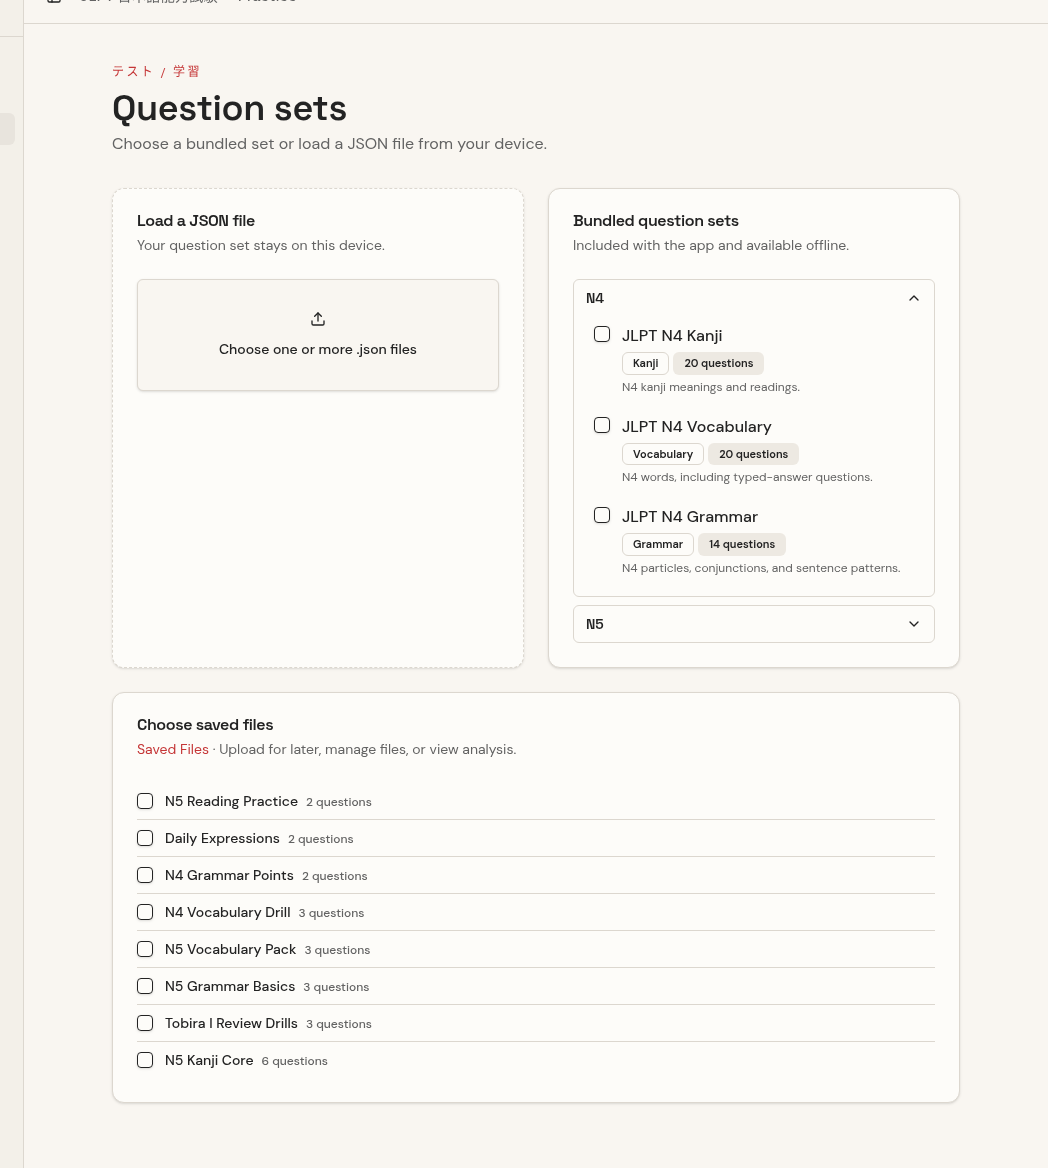
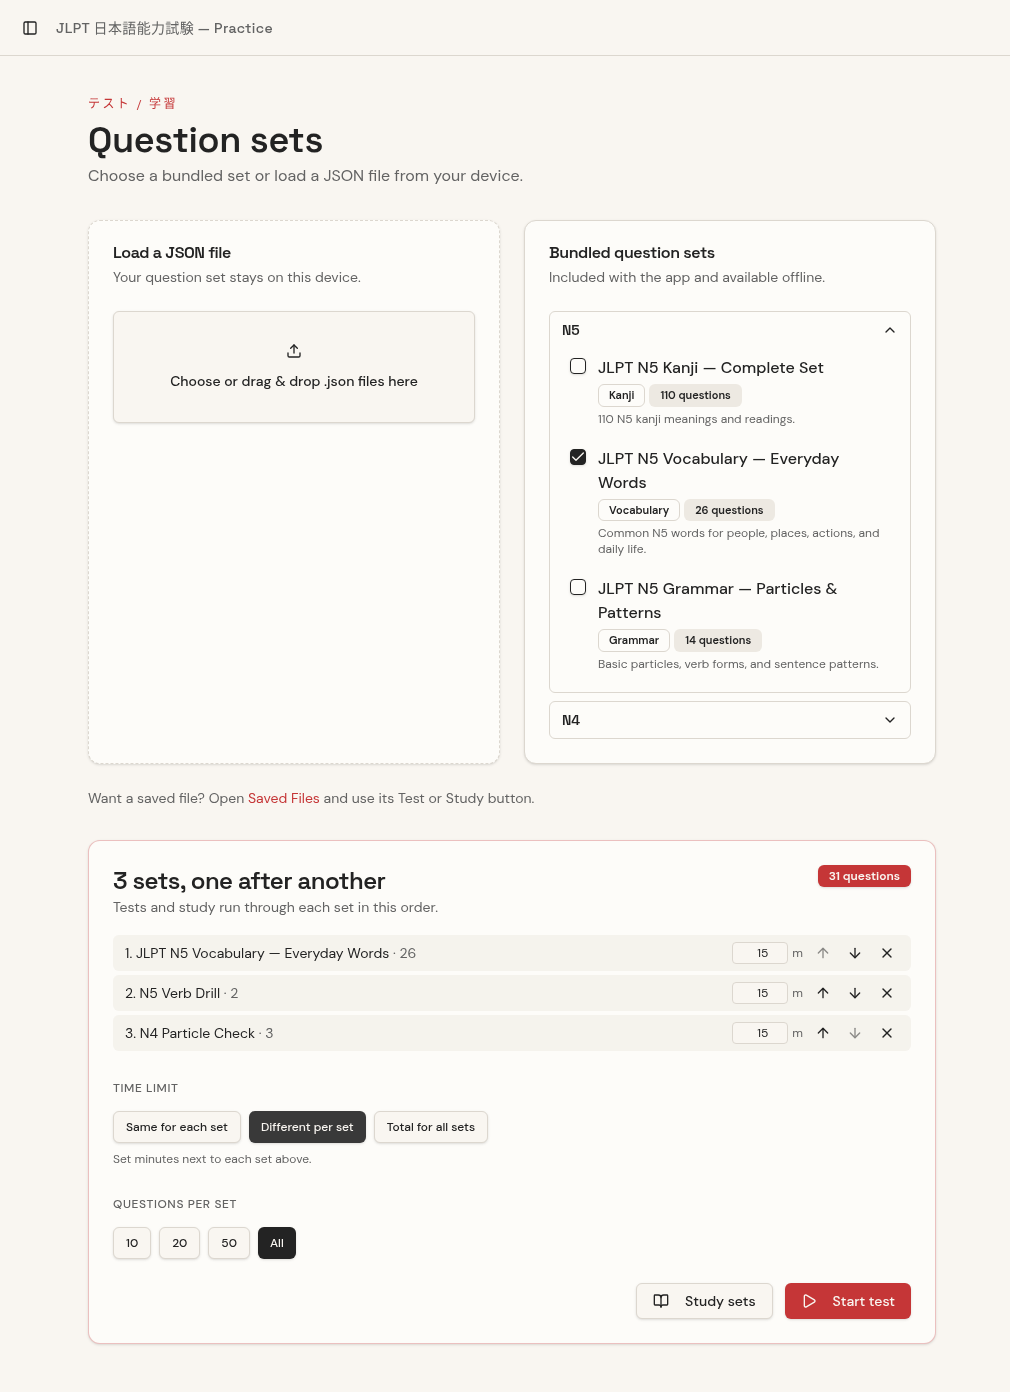
Replace contents with files from jlpt-quiz-buddy

diff --git a/src/routes/load.tsx b/src/routes/load.tsx
@@ -1,6 +1,6 @@
 import { createFileRoute, useNavigate } from "@tanstack/react-router";
 import { useEffect, useRef, useState } from "react";
-import { BookOpen, ChevronDown, Play, Upload, X } from "lucide-react";
+import { ArrowDown, ArrowUp, BookOpen, ChevronDown, Play, Upload, X } from "lucide-react";
 import { Checkbox } from "@/components/ui/checkbox";
 import { Collapsible, CollapsibleContent, CollapsibleTrigger } from "@/components/ui/collapsible";
 import { toast } from "sonner";
@@ -13,7 +13,6 @@ import { Badge } from "@/components/ui/badge";
 import { fetchManifest, groupBySection, pickQuestions, type ManifestEntry } from "@/lib/built-in-quizzes";
 import { normalizeQuizJson, saveActive, saveStudySets, validateQuestionSet } from "@/lib/quiz-store";
 import type { QuestionSet } from "@/lib/quiz-types";
-import { listFiles, type SavedFile } from "@/lib/library-store";
 import { importFixDescription, importQuizFile } from "@/lib/quiz-file-import";
 import { Link } from "@tanstack/react-router";
 
@@ -51,17 +50,10 @@ function LoadTest() {
       }
     }
     if (ok.length) {
-      void refreshFiles();
       setUploaded((u) => [...u, ...ok]);
       toast.success(`${ok.length} question set${ok.length > 1 ? "s" : ""} loaded`);
     }
   }
-
-  const [files, setFiles] = useState<SavedFile[]>([]);
-  const [picked, setPicked] = useState<string[]>([]);
-  const refreshFiles = () => listFiles().then(setFiles).catch(() => {});
-  useEffect(() => { void refreshFiles(); }, []);
-  const uploadedIds = new Set(uploaded.map((u) => u.sourceId));
 
   const [manifest, setManifest] = useState<ManifestEntry[]>([]);
   const [counts, setCounts] = useState<Record<string, number | null>>({});
@@ -91,21 +83,60 @@ function LoadTest() {
     setSelected((cur) => (on ? [...cur, id] : cur.filter((x) => x !== id)));
   }
 
-  const savedSets: QuestionSet[] = files.filter((f) => picked.includes(f.id) && !uploadedIds.has(f.id))
-    .map((f) => ({ ...f.set, sourceId: f.id }));
-  const sets: QuestionSet[] = [...selected.flatMap((x) => (loaded[x] ? [loaded[x]] : [])), ...savedSets, ...uploaded];
+  const keyOf = (s: QuestionSet, bundledId?: string) => (bundledId ? `b:${bundledId}` : s.sourceId ?? s.title);
+  const pool: [string, QuestionSet][] = [
+    ...selected.flatMap((x) => (loaded[x] ? [[keyOf(loaded[x], x), loaded[x]] as [string, QuestionSet]] : [])),
+    ...uploaded.map((u) => [keyOf(u), u] as [string, QuestionSet]),
+  ];
+  const [order, setOrder] = useState<string[]>([]);
+  const poolKeys = pool.map(([k]) => k);
+  const orderedKeys = [...order.filter((k) => poolKeys.includes(k)), ...poolKeys.filter((k) => !order.includes(k))];
+  const byKey = Object.fromEntries(pool);
+  const sets: QuestionSet[] = orderedKeys.map((k) => byKey[k]);
   const totalQuestions = sets.reduce((n, s) => n + s.questions.length, 0);
+
+  const [timeMode, setTimeMode] = useState<"same" | "each" | "total">("same");
+  const [perSet, setPerSet] = useState<Record<string, number>>({});
+  const [totalMin, setTotalMin] = useState(30);
+  const minutesFor = (k: string) => perSet[k] ?? duration;
+
+  function move(i: number, d: number) {
+    const j = i + d;
+    if (j < 0 || j >= orderedKeys.length) return;
+    const next = [...orderedKeys];
+    [next[i], next[j]] = [next[j], next[i]];
+    setOrder(next);
+  }
+  function remove(k: string) {
+    if (k.startsWith("b:")) toggle(k.slice(2), false);
+    else setUploaded((u) => u.filter((x) => keyOf(x) !== k));
+  }
 
   useEffect(() => {
     if (sets.length) saveStudySets(sets);
     // eslint-disable-next-line react-hooks/exhaustive-deps
-  }, [selected, uploaded, loaded, picked, files]);
+  }, [selected, uploaded, loaded, order]);
 
   function start() {
     if (!sets.length) return;
     const [first, ...rest] = sets.map((s) => pickQuestions(s, size));
-    saveActive({ set: first, startedAt: Date.now(), durationSec: duration * 60, answers: [], currentIndex: 0, queue: rest });
+    const startedAt = Date.now();
+    const secs = orderedKeys.map((k) => (timeMode === "each" ? minutesFor(k) : duration) * 60);
+    if (timeMode === "total") {
+      saveActive({ set: first, startedAt, durationSec: totalMin * 60, answers: [], currentIndex: 0, queue: rest, deadlineAt: startedAt + totalMin * 60_000 });
+    } else {
+      saveActive({ set: first, startedAt, durationSec: secs[0], answers: [], currentIndex: 0, queue: rest, queueDurations: secs.slice(1) });
+    }
     void navigate({ to: "/quiz" });
+  }
+
+  const [dragging, setDragging] = useState(false);
+  function onDrop(e: React.DragEvent) {
+    e.preventDefault();
+    setDragging(false);
+    const files = Array.from(e.dataTransfer.files).filter((f) => f.name.toLowerCase().endsWith(".json") || f.type === "application/json");
+    if (!files.length) { toast.error("Drop .json files only"); return; }
+    void onFiles(files);
   }
 
   return (
@@ -117,7 +148,12 @@ function LoadTest() {
       </div>
 
       <div className="grid gap-6 md:grid-cols-2">
-        <Card className="border-dashed transition-colors hover:border-hanko/50">
+        <Card
+          className={`border-dashed transition-colors hover:border-hanko/50 ${dragging ? "border-hanko bg-hanko/5" : ""}`}
+          onDragOver={(e) => { e.preventDefault(); setDragging(true); }}
+          onDragLeave={(e) => { if (!e.currentTarget.contains(e.relatedTarget as Node)) setDragging(false); }}
+          onDrop={onDrop}
+        >
           <CardHeader>
             <CardTitle className="font-display">Load a JSON file</CardTitle>
             <CardDescription>Your question set stays on this device.</CardDescription>
@@ -138,7 +174,7 @@ function LoadTest() {
             />
             <Button variant="outline" className="h-28 w-full flex-col gap-3" onClick={() => inputRef.current?.click()}>
               <Upload className="h-6 w-6" />
-              <span>Choose one or more .json files</span>
+              <span>{dragging ? "Drop to load" : "Choose or drag & drop .json files here"}</span>
             </Button>
           </CardContent>
         </Card>
@@ -186,29 +222,9 @@ function LoadTest() {
         </Card>
       </div>
 
-      <Card className="mt-6">
-        <CardHeader>
-          <CardTitle className="font-display">Choose saved files</CardTitle>
-          <CardDescription><Link to="/saved-files" className="text-hanko hover:underline">Saved Files</Link> · Upload for later, manage files, or view analysis.</CardDescription>
-        </CardHeader>
-        <CardContent>
-          {files.length === 0 ? (
-            <p className="text-sm text-muted-foreground">No saved files yet.</p>
-          ) : (
-            <ul className="divide-y">
-              {files.map((f) => (
-                <li key={f.id} className="flex items-center gap-3 py-2 text-sm">
-                  <Checkbox checked={picked.includes(f.id) || uploadedIds.has(f.id)} disabled={uploadedIds.has(f.id)}
-                    aria-label={`Use ${f.title}`}
-                    onCheckedChange={(v) => setPicked((p) => (v === true ? [...p, f.id] : p.filter((x) => x !== f.id)))} />
-                  <span className="min-w-0 flex-1 break-words font-medium">{f.title}
-                    <span className="ml-2 text-xs text-muted-foreground">{f.set.questions.length} questions</span></span>
-                </li>
-              ))}
-            </ul>
-          )}
-        </CardContent>
-      </Card>
+      <p className="mt-6 text-sm text-muted-foreground">
+        Want a saved file? Open <Link to="/saved-files" className="text-hanko hover:underline">Saved Files</Link> and use its Test or Study button.
+      </p>
 
       {sets.length > 0 && (
         <Card className="mt-8 border-hanko/30">
@@ -224,16 +240,26 @@ function LoadTest() {
             </div>
             <ol className="mt-3 space-y-1 text-sm">
               {sets.map((s, i) => {
-                const upIdx = i - (sets.length - uploaded.length);
+                const k = orderedKeys[i];
                 return (
-                  <li key={i} className="flex items-center justify-between gap-2 rounded-md bg-secondary/50 px-3 py-1.5">
-                    <span className="min-w-0 truncate">{i + 1}. {s.title} <span className="text-muted-foreground">· {s.questions.length}</span></span>
-                    {upIdx >= 0 && (
-                      <Button size="icon" variant="ghost" className="h-6 w-6" aria-label={`Remove ${s.title}`}
-                        onClick={() => setUploaded((u) => u.filter((_, j) => j !== upIdx))}>
-                        <X className="h-3.5 w-3.5" />
-                      </Button>
+                  <li key={k} className="flex items-center justify-between gap-2 rounded-md bg-secondary/50 px-3 py-1.5">
+                    <span className="min-w-0 flex-1 truncate">{i + 1}. {s.title} <span className="text-muted-foreground">· {s.questions.length}</span></span>
+                    {timeMode === "each" && (
+                      <label className="flex items-center gap-1 text-xs text-muted-foreground">
+                        <input type="number" min={1} max={300} value={minutesFor(k)} aria-label={`Minutes for ${s.title}`}
+                          onChange={(e) => setPerSet((p) => ({ ...p, [k]: Math.max(1, Number(e.target.value) || 1) }))}
+                          className="w-14 rounded border bg-background px-1 py-0.5 text-right text-foreground" />m
+                      </label>
                     )}
+                    <Button size="icon" variant="ghost" className="h-6 w-6" aria-label={`Move ${s.title} up`} disabled={i === 0} onClick={() => move(i, -1)}>
+                      <ArrowUp className="h-3.5 w-3.5" />
+                    </Button>
+                    <Button size="icon" variant="ghost" className="h-6 w-6" aria-label={`Move ${s.title} down`} disabled={i === sets.length - 1} onClick={() => move(i, 1)}>
+                      <ArrowDown className="h-3.5 w-3.5" />
+                    </Button>
+                    <Button size="icon" variant="ghost" className="h-6 w-6" aria-label={`Remove ${s.title}`} onClick={() => remove(k)}>
+                      <X className="h-3.5 w-3.5" />
+                    </Button>
                   </li>
                 );
               })}
@@ -241,11 +267,25 @@ function LoadTest() {
           </CardHeader>
           <CardContent className="space-y-6">
             <div>
-              <Label htmlFor="duration" className="text-xs uppercase tracking-wider text-muted-foreground">Time limit per set</Label>
-              <div className="mt-3 flex items-center gap-4">
-                <Slider id="duration" min={1} max={60} step={1} value={[duration]} onValueChange={(value) => setDuration(value[0] ?? 15)} />
-                <div className="w-16 text-right font-display text-lg tabular-nums">{duration}m</div>
+              <Label className="text-xs uppercase tracking-wider text-muted-foreground">Time limit</Label>
+              <div className="mt-3 flex flex-wrap gap-2">
+                {([["same", "Same for each set"], ["each", "Different per set"], ["total", "Total for all sets"]] as const).map(([m, label]) => (
+                  <Button key={m} type="button" size="sm" variant={timeMode === m ? "default" : "outline"} onClick={() => setTimeMode(m)}>{label}</Button>
+                ))}
               </div>
+              {timeMode === "same" && (
+                <div className="mt-3 flex items-center gap-4">
+                  <Slider id="duration" aria-label="Minutes per set" min={1} max={60} step={1} value={[duration]} onValueChange={(value) => setDuration(value[0] ?? 15)} />
+                  <div className="w-16 text-right font-display text-lg tabular-nums">{duration}m</div>
+                </div>
+              )}
+              {timeMode === "each" && <p className="mt-2 text-xs text-muted-foreground">Set minutes next to each set above.</p>}
+              {timeMode === "total" && (
+                <div className="mt-3 flex items-center gap-4">
+                  <Slider aria-label="Total minutes" min={1} max={240} step={1} value={[totalMin]} onValueChange={(value) => setTotalMin(value[0] ?? 30)} />
+                  <div className="w-16 text-right font-display text-lg tabular-nums">{totalMin}m</div>
+                </div>
+              )}
             </div>
             <div>
               <Label className="text-xs uppercase tracking-wider text-muted-foreground">Questions per set</Label>

diff --git a/src/routes/instructions.tsx b/src/routes/instructions.tsx
@@ -134,10 +134,11 @@ function Instructions() {
         </CardHeader>
         <CardContent className="space-y-3 text-sm leading-relaxed">
           <ol className="list-decimal space-y-2 pl-5">
-            <li>Open <Link to="/load" className="text-hanko underline-offset-4 hover:underline">Load Test</Link> and either choose a <code className="rounded bg-muted px-1.5 py-0.5 font-mono text-xs">.json</code> file or pick a built-in set. Bundled sets are grouped by JLPT level — N5 first, then N4.</li>
-            <li>Set the time limit and press <strong>Start test</strong>.</li>
+            <li>Open <Link to="/load" className="text-hanko underline-offset-4 hover:underline">Load Test</Link> and either choose a <code className="rounded bg-muted px-1.5 py-0.5 font-mono text-xs">.json</code> file — or drag & drop files from your file manager onto the box — or pick a built-in set. Bundled sets are grouped by JLPT level — N5 first, then N4. Saved files live on <Link to="/saved-files" className="text-hanko underline-offset-4 hover:underline">Saved Files</Link> and each one there has its own <strong>Test</strong> and <strong>Study</strong> buttons.</li>
+            <li>When several sets are queued, reorder them with the up and down arrows and remove one with the ✕ button. Choose the time limit style: <strong>same for each set</strong>, <strong>different per set</strong> (a minutes box appears beside each set), or <strong>total for all sets combined</strong>. Then press <strong>Start test</strong>.</li>
             <li>Answer each question without seeing the correct answer during the test. Typed answers accept listed alternatives and small spelling differences.</li>
             <li>At the end, review every answer on the <Link to="/results" className="text-hanko underline-offset-4 hover:underline">Results</Link> screen.</li>
+            <li>Navigate like in a browser: <strong>Alt + ←</strong> goes back and <strong>Alt + →</strong> goes forward.</li>
             <li>Choose <Link to="/study" className="text-hanko underline-offset-4 hover:underline">Study</Link> from the sidebar for a single scrolling page showing every question with its answer and explanation, with search and no timer or scoring.</li>
             <li>Your latest five detailed results are saved on this device. Deleting a result excludes that test from dashboard statistics.</li>
             <li>Open <Link to="/saved-files" className="text-hanko underline-offset-4 hover:underline">Saved Files</Link> and choose <strong>Upload to save</strong> to keep one or more JSON files without testing or studying now. Files stay on this device until deleted or app/browser storage is cleared.</li>

diff --git a/src/routes/quiz.tsx b/src/routes/quiz.tsx
@@ -76,9 +76,14 @@ function QuizScreen() {
       const queue = a.queue ?? [];
       if (!exitAll && queue.length > 0) {
         const [nextSet, ...rest] = queue;
+        const [nextDur, ...restDur] = a.queueDurations ?? [];
+        const durationSec = a.deadlineAt
+          ? Math.max(1, Math.round((a.deadlineAt - Date.now()) / 1000))
+          : (nextDur ?? a.durationSec);
         const next: ActiveSession = {
-          set: nextSet, startedAt: Date.now(), durationSec: a.durationSec,
+          set: nextSet, startedAt: Date.now(), durationSec,
           answers: [], currentIndex: 0, queue: rest, lastSavedId: savedId,
+          queueDurations: a.queueDurations ? restDur : undefined, deadlineAt: a.deadlineAt,
         };
         saveActive(next);
         setActive(next);
@@ -101,7 +106,7 @@ function QuizScreen() {
 
   useEffect(() => {
     if (active && timeLeft === 0 && active.durationSec > 0) {
-      finish(active);
+      finish(active, true, !!active.deadlineAt);
     }
   }, [active, timeLeft, finish]);
 

diff --git a/src/routes/__root.tsx b/src/routes/__root.tsx
@@ -114,6 +114,21 @@ function RootShell({ children }: { children: ReactNode }) {
 function RootComponent() {
   const { queryClient } = Route.useRouteContext();
 
+  useEffect(() => {
+    function onKey(e: KeyboardEvent) {
+      if (!e.altKey || e.ctrlKey || e.metaKey || e.shiftKey) return;
+      if (e.key === "ArrowLeft") {
+        e.preventDefault();
+        window.history.back();
+      } else if (e.key === "ArrowRight") {
+        e.preventDefault();
+        window.history.forward();
+      }
+    }
+    window.addEventListener("keydown", onKey);
+    return () => window.removeEventListener("keydown", onKey);
+  }, []);
+
   return (
     <QueryClientProvider client={queryClient}>
       <SidebarProvider>

diff --git a/src/lib/built-in-quizzes.test.ts b/src/lib/built-in-quizzes.test.ts
@@ -22,3 +22,14 @@ describe("library", () => {
     expect(g[0][0]).toBe(3);
   });
 });
+
+describe("groupBySection", () => {
+  it("lists easier levels first (N5 before N4)", () => {
+    const entries = [
+      { id: "n4-kanji", level: "N4", lesson: 4, type: "kanji", url: "/a", title: "N4 Kanji" },
+      { id: "n5-vocab", level: "N5", lesson: 2, type: "vocabulary", url: "/b", title: "N5 Vocab" },
+    ] as never[];
+    const [first] = groupBySection(entries);
+    expect(first[0]).toBe("N5");
+  });
+});

diff --git a/src/lib/built-in-quizzes.ts b/src/lib/built-in-quizzes.ts
@@ -62,7 +62,7 @@ export function groupBySection(entries: ManifestEntry[]): [string, ManifestEntry
   return [...map.entries()].sort(([a], [b]) => {
     const ra = levelRank(a);
     const rb = levelRank(b);
-    if (ra !== null && rb !== null) return ra - rb;
+    if (ra !== null && rb !== null) return rb - ra;
     if (ra !== null) return -1;
     if (rb !== null) return 1;
     return b.localeCompare(a, undefined, { numeric: true });

diff --git a/src/lib/quiz-store.ts b/src/lib/quiz-store.ts
@@ -171,6 +171,10 @@ export interface ActiveSession {
   queue?: QuestionSet[];
   /** Id of the most recently saved result in this run. */
   lastSavedId?: string;
+  /** Time limits (sec) for each queued set, in queue order. */
+  queueDurations?: number[];
+  /** Absolute end time (ms) when one total limit covers all sets. */
+  deadlineAt?: number;
 }
 
 export function loadActive(): ActiveSession | null {

diff --git a/README.md b/README.md
@@ -55,7 +55,7 @@ Track progress: lifetime accuracy, sessions completed, daily streak, questions a
 
 ### Load Test
 
-Pick bundled sets (grouped by JLPT level, N5 first) and/or upload one or more local JSON files, order them in the queue, choose 10 / 20 / 50 / All questions per set, set the time limit, then **Start test** or **Study sets**. Multiple sets run one after another.
+Pick bundled sets (grouped by JLPT level, N5 first) and/or upload one or more local JSON files — click to choose, or drag & drop `.json` files from your file manager straight onto the drop box. Order the queue with the up/down arrows and remove a set with ✕, choose 10 / 20 / 50 / All questions per set, and set the time limit one of three ways: the **same limit for each set**, a **different limit per set** (a minutes box appears next to each set), or **one total limit for all sets combined**. Then **Start test** or **Study sets**; multiple sets run one after another in the order shown.
 
 ![Load Test](docs/screenshots/load.png)
 
@@ -397,7 +397,7 @@ Use **Reset all progress** at the bottom of the Dashboard, or clear Electron's p
 
 ## Japanese IME note
 
-Pressing Enter while the IME (e.g. Mozc) is still composing won't submit the answer. The 1–9 keys pick options by physical key, so they work whatever your keyboard layout.
+Pressing Enter while the IME (e.g. Mozc) is still composing won't submit the answer. The 1–9 keys pick options by physical key, so they work whatever your keyboard layout. Anywhere in the app, **Alt + ←** goes back and **Alt + →** goes forward, just like browser history.
 
 ---
 

diff --git a/roadmap.md b/roadmap.md
@@ -24,3 +24,5 @@
 - [x] Ship N5 and N4 bundle JSON files and the annotated example_structure.json reference.
 - [x] Add subset export (selected files and their attempts) alongside full backup.
 - [x] Overhaul README with screenshots of every tab and the complete JSON format spec; align the in-app Instructions.
+- [x] Load Test: drag & drop JSON, remove saved-files list, reorder sets, per-set/same/total time limits
+- [x] Alt+←/→ back/forward navigation
